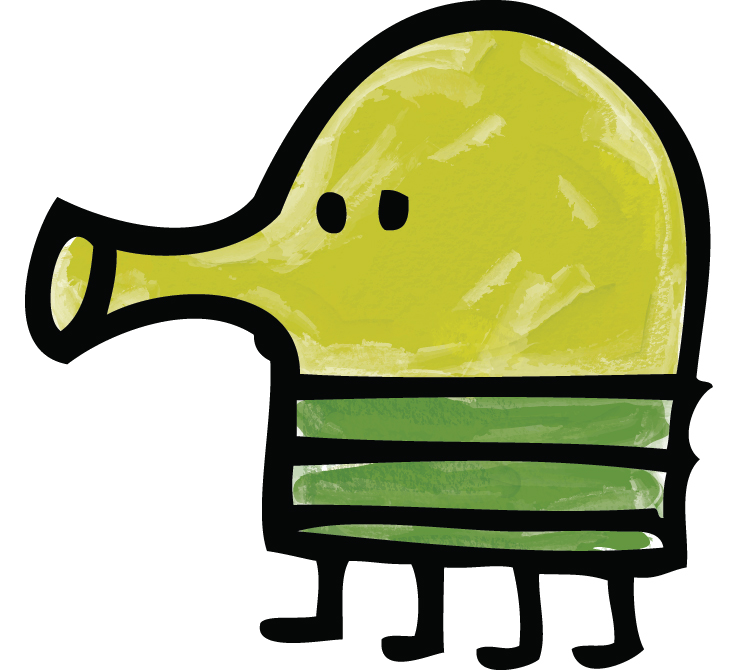
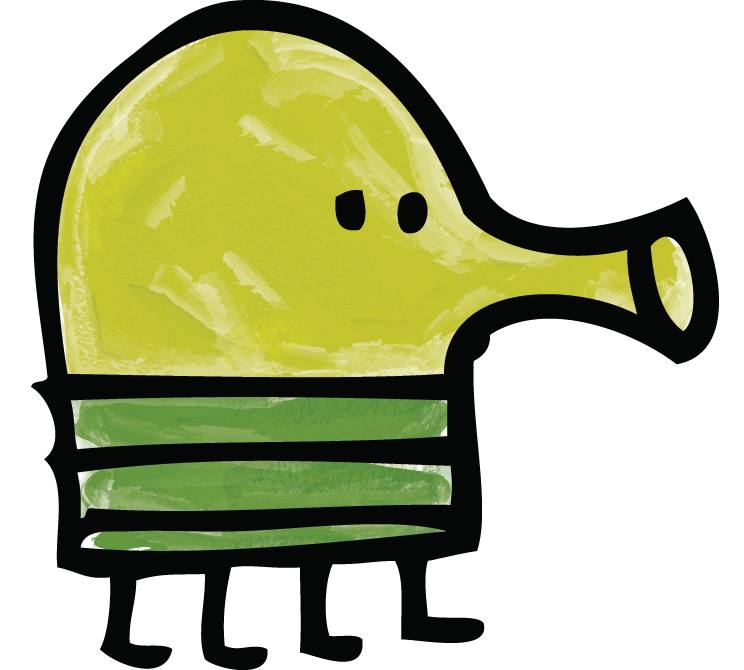
Made flipping more generic and fixed control bug

diff --git a/mechanics/Player.py b/mechanics/Player.py
@@ -11,7 +11,6 @@ class Player(Entity):
         self.size = Vec2D(30, 30) if not isinstance(size, int) else Vec2D(abs(size), abs(size))
         self.set_image('res/doodle.png')
         self.movement = Vec2D(Player.DEFAULT_SPEED, Player.DEFAULT_GRAVITY)
-        self.control(1)
         self.health = 100
         self.jumping = 0
 
@@ -21,10 +20,8 @@ class Player(Entity):
             return
         direction = x / abs(x)
         # Flipping the image of the player if he turns around
-        if direction != self.movement / Player.DEFAULT_SPEED:
-            from pygame.transform import flip
-            self.image = flip(self.image, True, False)
-        self.movement.x = direction * Player.DEFAULT_SPEED
+        if direction != self.movement.x / Player.DEFAULT_SPEED:
+            self.turn_around()
 
     def move(self):
         Entity.move(self)

diff --git a/mechanics/Entity.py b/mechanics/Entity.py
@@ -23,6 +23,11 @@ class Entity(Drawable):
         end = self.pos + self.size / 2 + self.movement * 5
         line(surf, (255, 255, 0), start.get_tuple(), end.get_tuple(), 5)
 
+    def turn_around(self):
+        from pygame.transform import flip
+        self.movement.x *= -1
+        self.image = flip(self.image, True, False)
+
     def move(self):
         from main import Game
         level = Game.level
